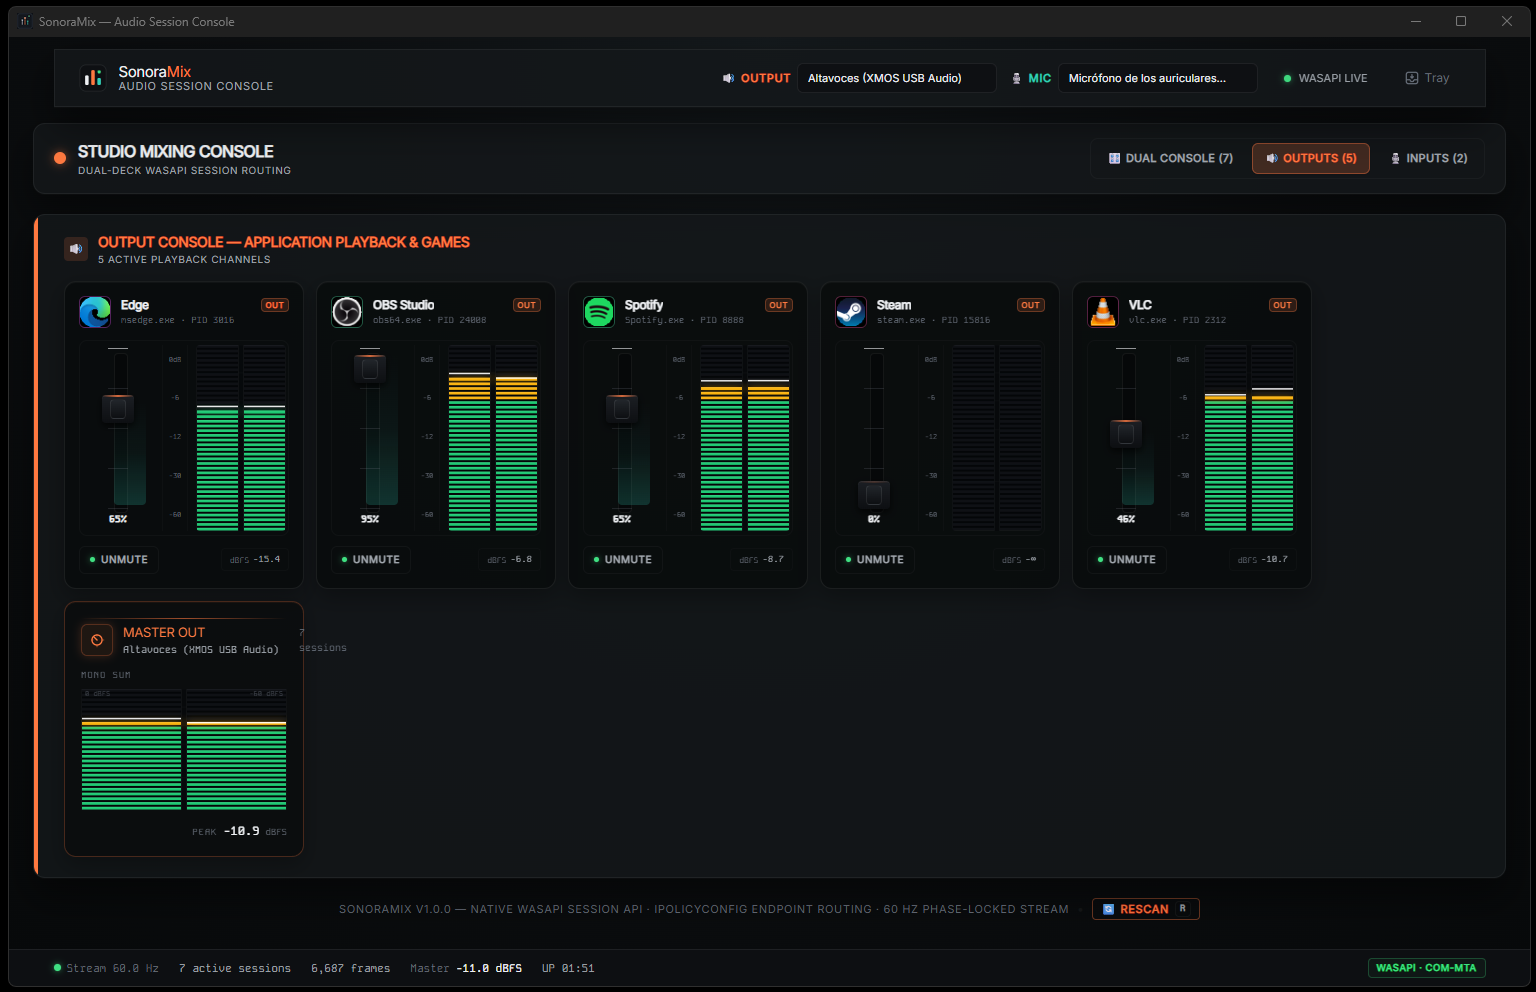
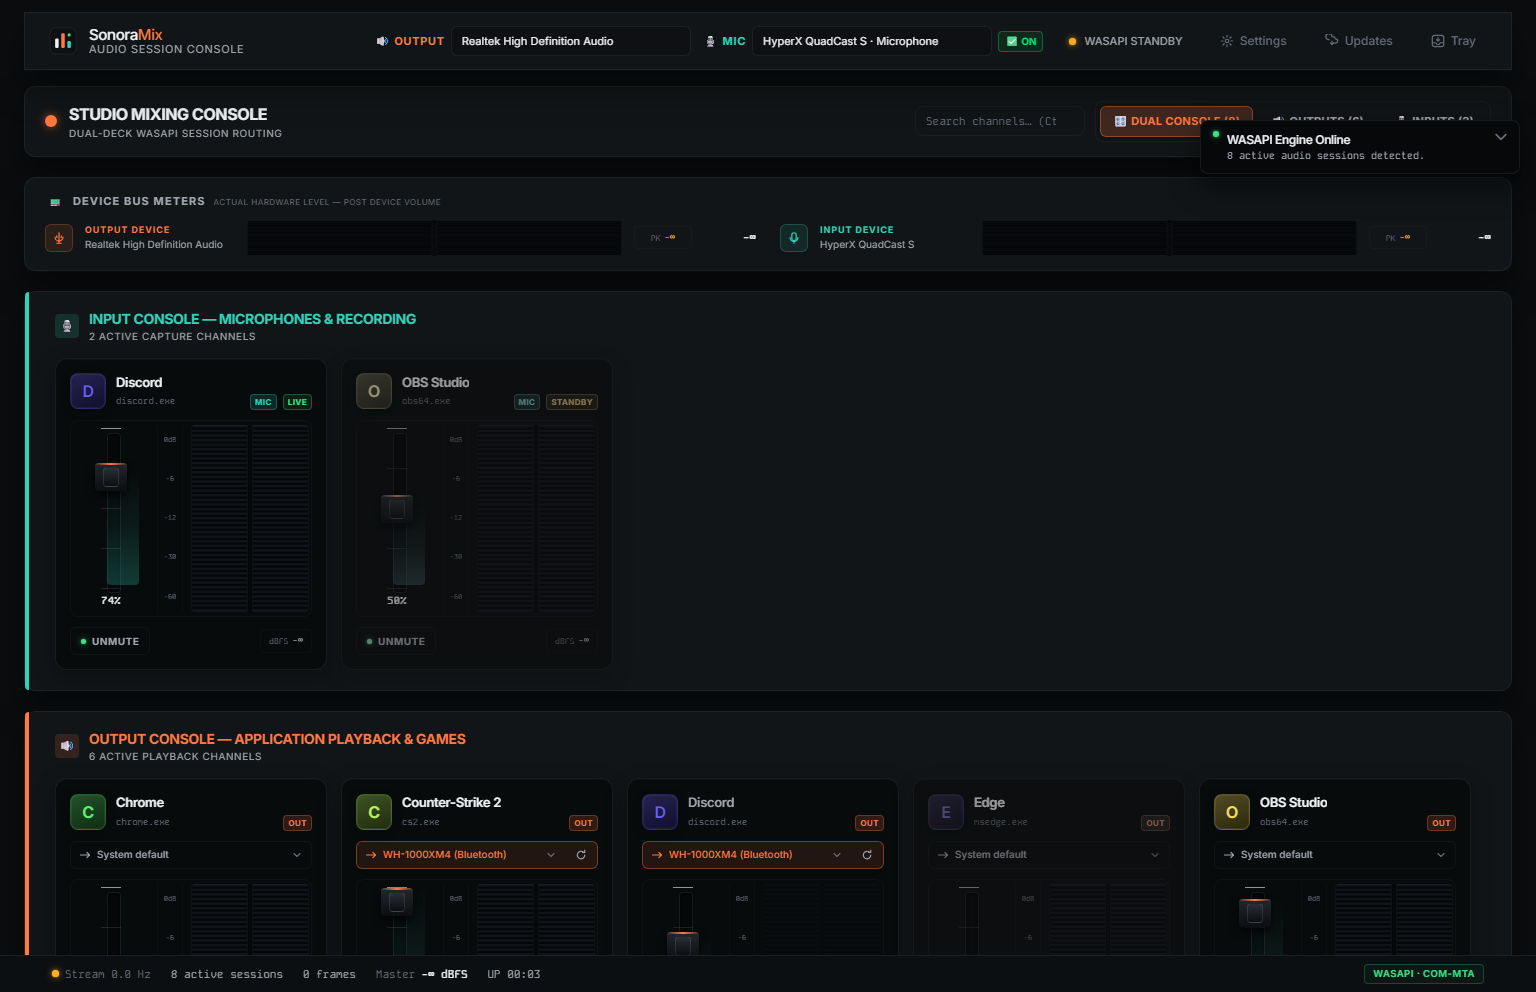
docs: update SonoraMix_UI.png screenshot to the redesigned console (v1.1.0) + livelier demo meter levels

diff --git a/src/audio/engine.ts b/src/audio/engine.ts
@@ -334,24 +334,27 @@ class MockBridge implements AudioBridge {
     return Promise.resolve();
   }
 
-  startStream(): Promise<void> {
+startStream(): Promise<void> {
     this.stopStream();
-    const tick = () => {
-      this.phase += 0.06;
+    // Emit an immediate first frame (headless screenshots / fast previews may
+    // capture before the first 16ms timeout fires) and then keep animating.
+    const tick = (immediate: boolean) => {
+      if (!immediate) this.phase += 0.06;
       if (this.meterCb) {
         const frames: MeterFrame[] = this.sessions.map((s, i) => {
-          const base = s.state === "inactive" ? 0.02 : 0.25 + 0.3 * Math.abs(Math.sin(this.phase + i * 1.7));
-          const l = Math.min(1, base * (0.9 + 0.2 * Math.sin(this.phase * 1.3 + i)));
-          const r = Math.min(1, base * (0.9 + 0.2 * Math.cos(this.phase * 1.1 + i)));
+          // Generous base level so demo meters read as clearly lit.
+          const base = s.state === "inactive" ? 0.05 : 0.5 + 0.32 * Math.abs(Math.sin(this.phase + i * 1.7));
+          const l = Math.min(1, base * (0.92 + 0.16 * Math.sin(this.phase * 1.3 + i)));
+          const r = Math.min(1, base * (0.92 + 0.16 * Math.cos(this.phase * 1.1 + i)));
           return { id: s.id, pid: s.pid, peak: Math.max(l, r), left: l, right: r };
         });
-        frames.push({ id: "device:render", pid: 0, peak: 0.6, left: 0.58, right: 0.55 });
-        frames.push({ id: "device:capture", pid: 0, peak: 0.35, left: 0.34, right: 0.32 });
+        frames.push({ id: "device:render", pid: 0, peak: 0.68, left: 0.66, right: 0.63 });
+        frames.push({ id: "device:capture", pid: 0, peak: 0.42, left: 0.41, right: 0.39 });
         this.meterCb(frames);
       }
-      this.meterTimer = window.setTimeout(tick, 16);
+      this.meterTimer = window.setTimeout(() => tick(false), 16);
     };
-    tick();
+    tick(true);
     return Promise.resolve();
   }
 
